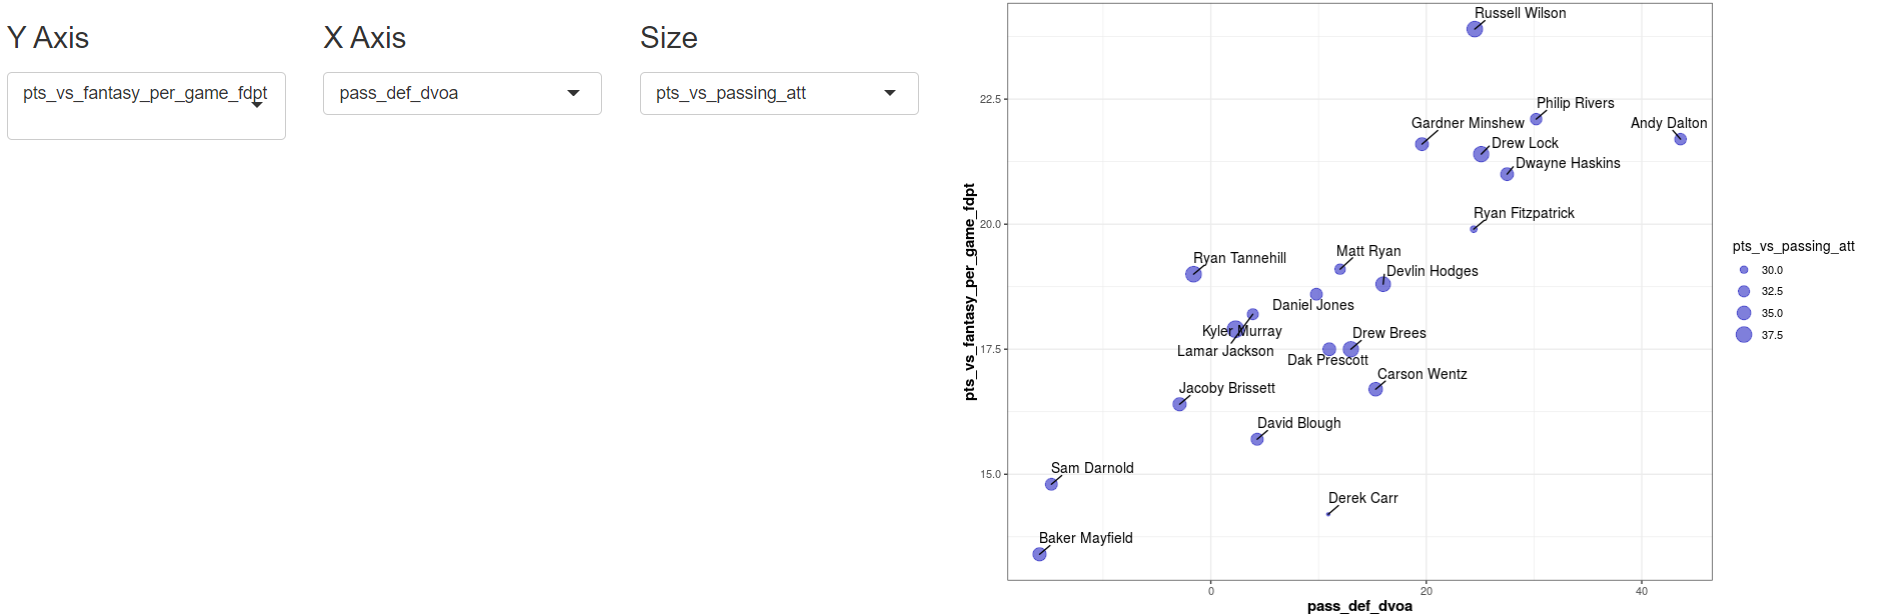
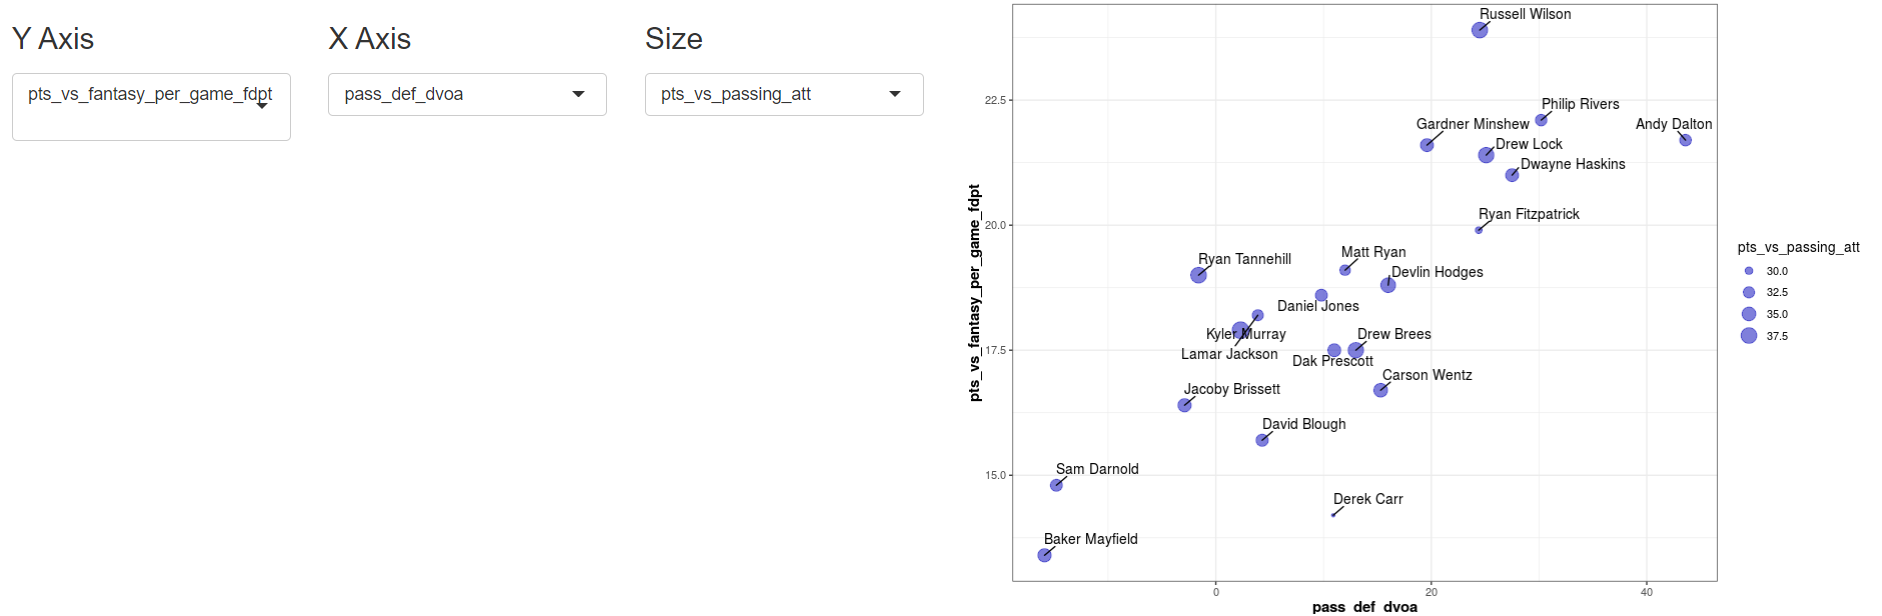
fixing width to 900 on images

diff --git a/_posts/2020-02-07-Shiny Web App.md b/_posts/2020-02-07-Shiny Web App.md
@@ -12,13 +12,17 @@ I turned to [`Shiny`](https://shiny.rstudio.com) web apps for this purpose to de
 
 The app features sortable tables (pictured below) with sliders. There is a table for offensive stats and one for opposing team defensive stats. The tables are also searchable.
 
-<img src = "https://raw.githubusercontent.com/MattWittbrodt/website/master/images/shiny_post/qb_table.png" width = "500" />
+<img src = "https://raw.githubusercontent.com/MattWittbrodt/website/master/images/shiny_post/qb_table.png" width = "900" />
+
+
 
 
 
 In addition, there are interactive plots below. The plots will display all results in the table (default), but this can be disabled and the app will show players clicked on in the table. Additionally, the y axis, x axis, and size of the circle can be altered to display any of the variables within the table. These tables were created using ``ggplot2`` with dynamically coded data frame.
 
-<img src = "https://raw.githubusercontent.com/MattWittbrodt/website/master/images/shiny_post/qb_graph.png" width = "500" />
+<img src = "https://raw.githubusercontent.com/MattWittbrodt/website/master/images/shiny_post/qb_graph.png" width = "900" />
+
+
 
 
 
